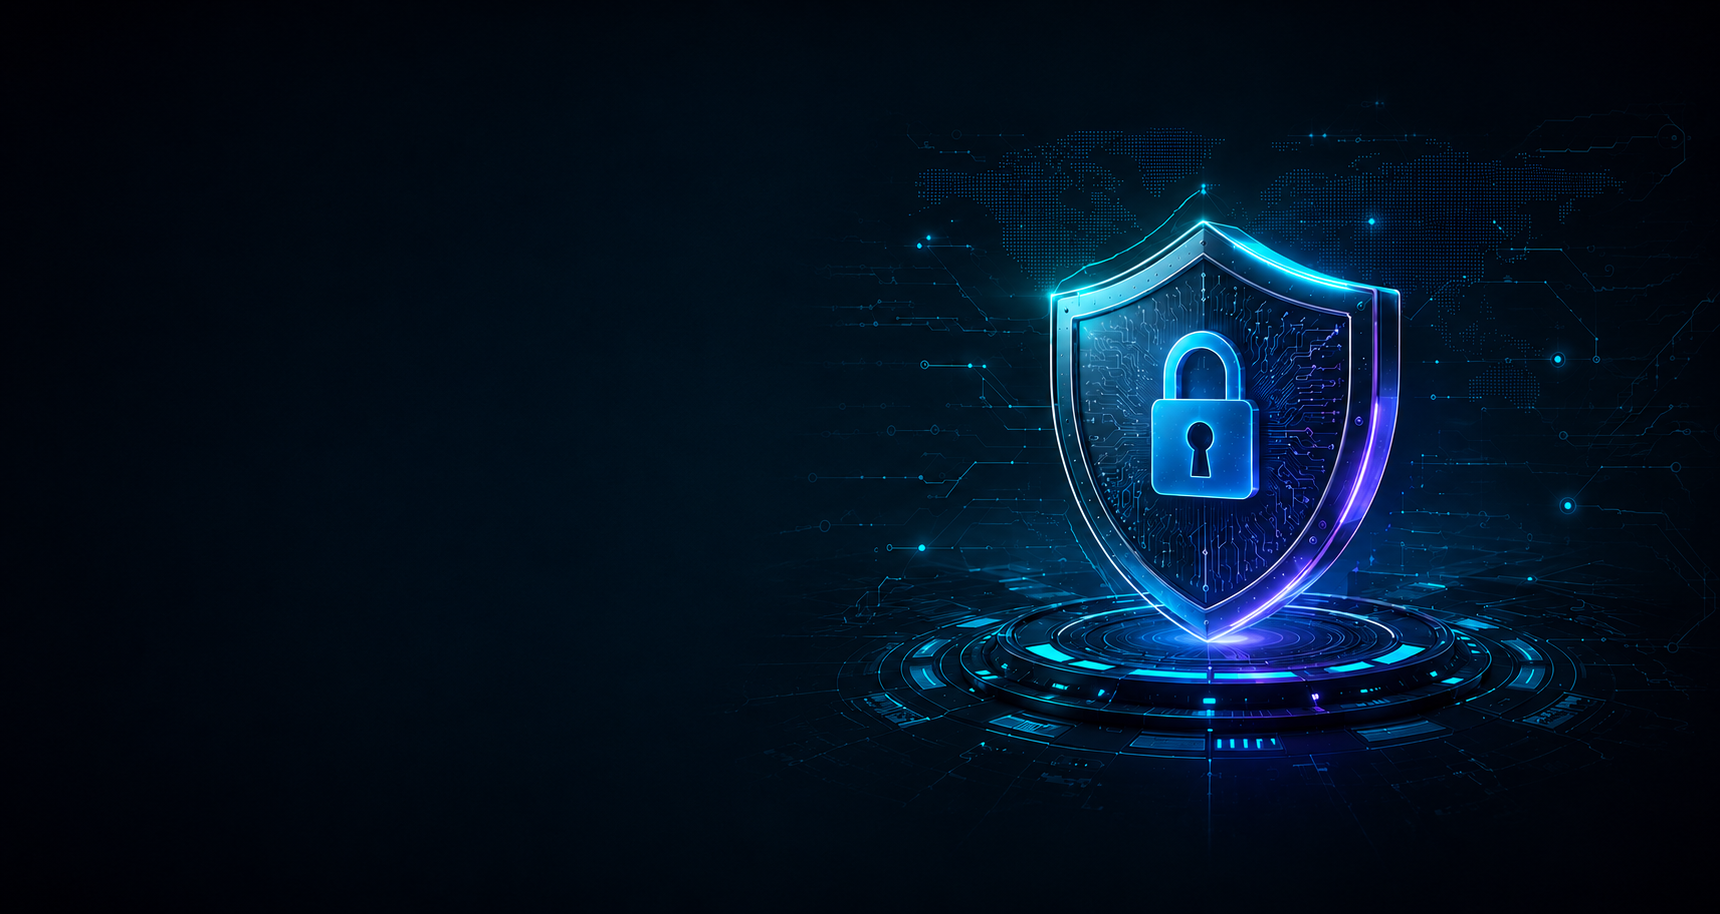
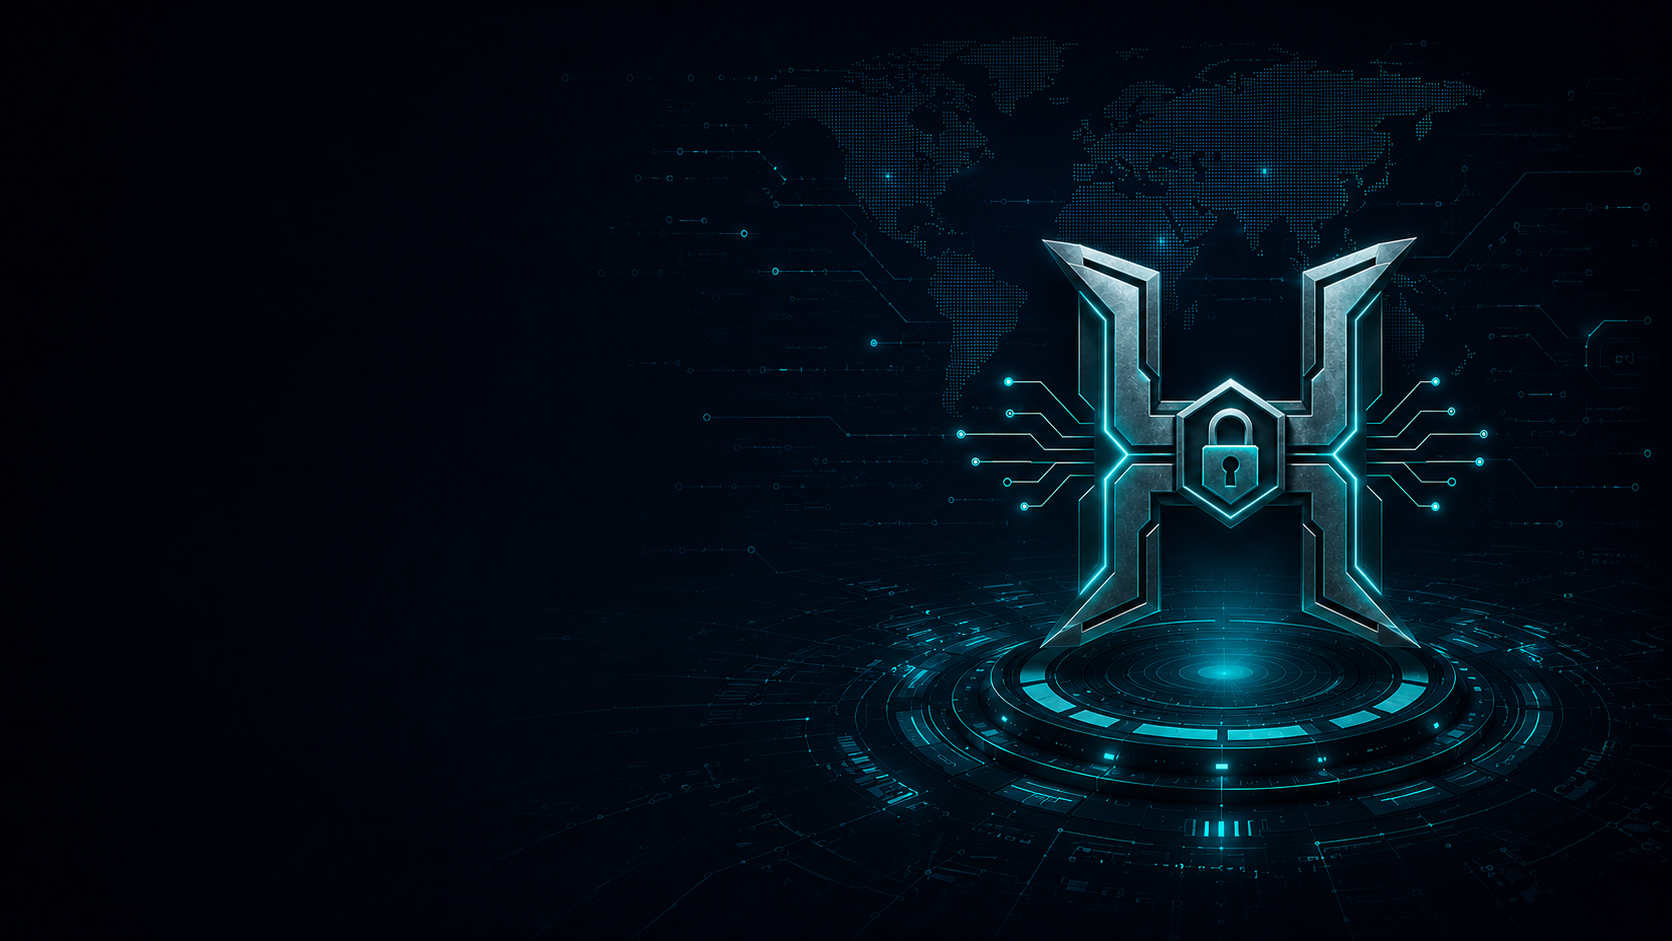
Animation

diff --git a/src/pages/Leaderboard.tsx b/src/pages/Leaderboard.tsx
@@ -222,11 +222,11 @@ const Leaderboard = () => {
           </div>
         </div>
 
-        <div className="event-security-stack" aria-label="Kavach security cycle">
+        {/* <div className="event-security-stack" aria-label="Kavach security cycle">
           <span>Secure</span>
           <span>Detect</span>
           <span>Respond</span>
-        </div>
+        </div> */}
       </div>
 
       <div className="leaderboard-shell" id="kavach-leaderboard">
